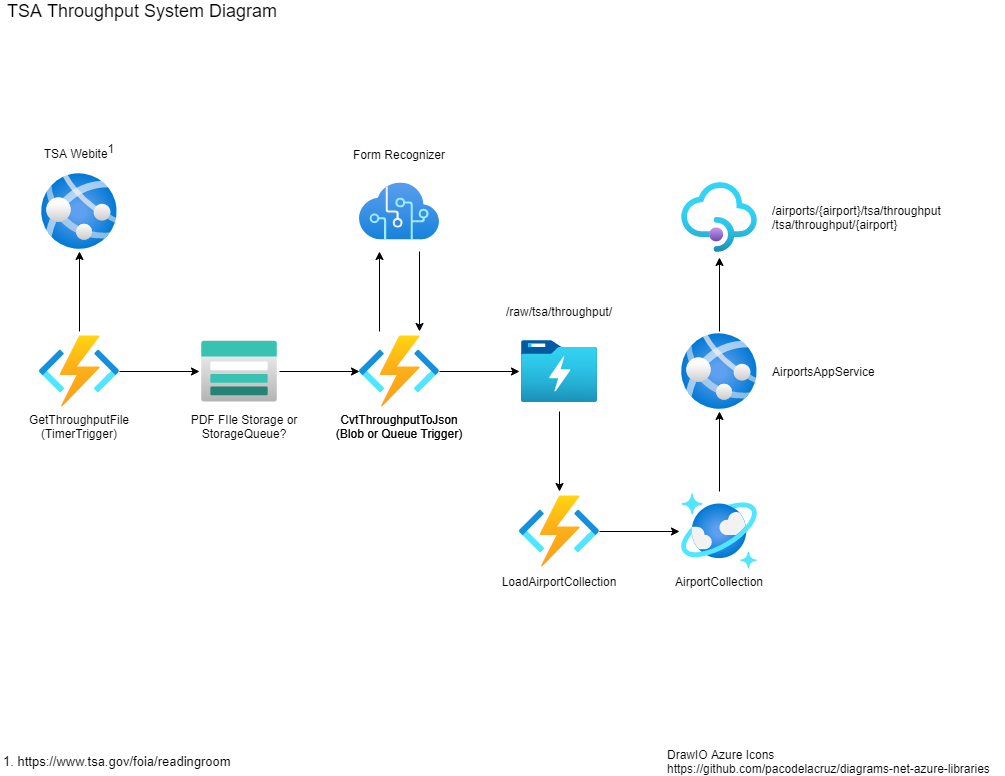
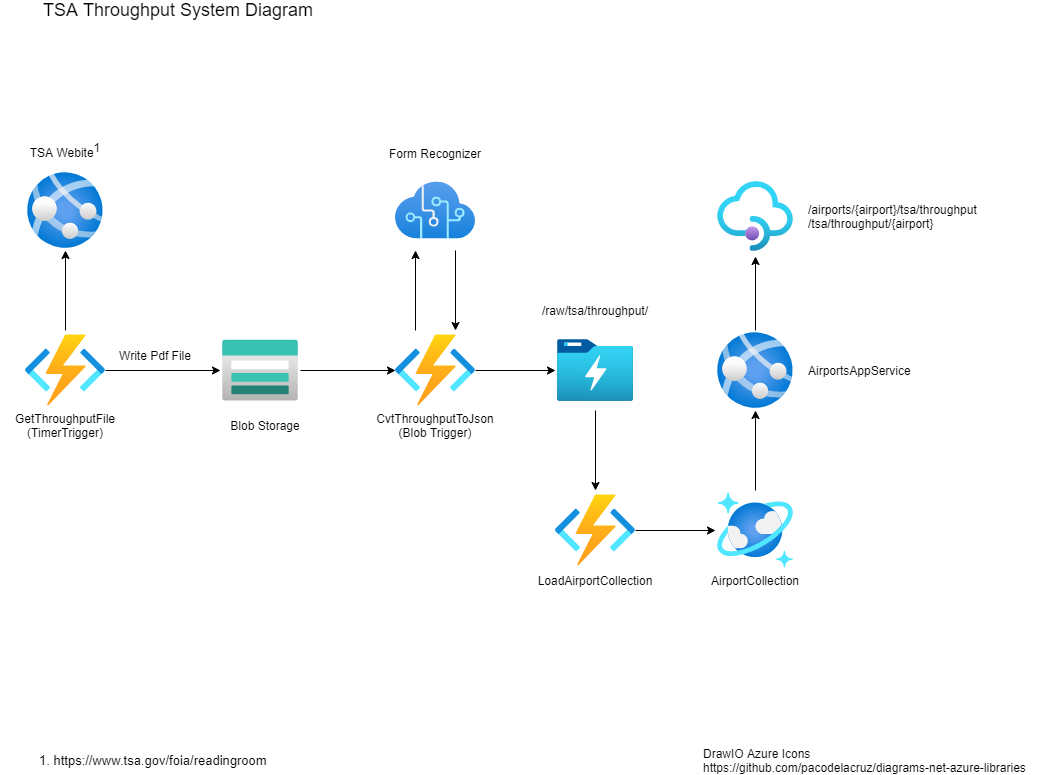
Updated to Write PDF File to Blob Storage

diff --git a/src/TsaThroughputFunctions/GetTsaThroughputFile.cs b/src/TsaThroughputFunctions/GetTsaThroughputFile.cs
@@ -3,10 +3,15 @@ using System.IO;
 using System.IO.Compression;
 using System.Net.Http;
 using System.Threading.Tasks;
+
+using Microsoft.AspNetCore.Mvc;
+
 using Microsoft.Azure.WebJobs;
-using Microsoft.Azure.WebJobs.Host;
+
 using Microsoft.Extensions.Logging;
+
 using HtmlAgilityPack;
+
 
 namespace TsaThroughput.Data.Raw
 {
@@ -15,19 +20,31 @@ namespace TsaThroughput.Data.Raw
         private static readonly HttpClient _httpClient = new HttpClient();
 
         [FunctionName("GetTsaThroughputFile")]
-        public static async void Run([TimerTrigger("1/1 * * * *")]TimerInfo myTimer, ILogger log) {
+        public static async Task Run(
+            [TimerTrigger("1/1 * * * *")] TimerInfo myTimer,
+            [Blob("data/stage/tsa/throughput/pdffile.pdf", FileAccess.Write, Connection = "AzureWebJobsStorage")] Stream pdfStream,
+            ILogger log, 
+            ExecutionContext context)
+        {
             log.LogInformation($"C# Timer trigger function executed at: {DateTime.Now}");
 
             var latestThroughputFileUrl = await GetLatestThroughputFileUrl(log);
             log.LogInformation($"Latest throughputfiles is {latestThroughputFileUrl}");
 
             var pdf = await SaveThroughputPdfAsync(latestThroughputFileUrl);
+
+            var pdfWriter = new StreamWriter(pdfStream);
+            pdfWriter.Write(pdf);
+            pdfWriter.Flush();
+            log.LogInformation("Stream Saved");
+
         }
 
         //
         // GetLatestThroughputFileUrl(log)
         // Returns the Url of the latest TsaThroughputFile
-        private static async Task<string> GetLatestThroughputFileUrl(ILogger log) {
+        private static async Task<string> GetLatestThroughputFileUrl(ILogger log) 
+        {
             string website = "https://www.tsa.gov";
             string subUrl = "/foia/readingroom/";
 
@@ -36,7 +53,8 @@ namespace TsaThroughput.Data.Raw
             HtmlDocument doc = new HtmlDocument();
             doc.LoadHtml(html);
 
-            // Extract the link so we can fetch it
+            // Extract the link so we can fetch it. Make sure it is a TSA Throughput File
+            // This assumes that the first file is always the latest
             var url = doc.DocumentNode
                 .SelectSingleNode("//a[@class='foia-reading-link'][contains(text(),'TSA Throughput')]")
                 .Attributes["href"].Value;
@@ -58,6 +76,7 @@ namespace TsaThroughput.Data.Raw
             request.Headers.TryAddWithoutValidation("Accept-Charset", "ISO-8859-1");
 
             using var response = await _httpClient.SendAsync(request).ConfigureAwait(false);
+            
             response.EnsureSuccessStatusCode();
 
             using var responseStream = await response.Content.ReadAsStreamAsync().ConfigureAwait(false);

diff --git a/src/TsaThroughputFunctions/ConvertTsaThroughputPdfToJson.cs b/src/TsaThroughputFunctions/ConvertTsaThroughputPdfToJson.cs
@@ -1,11 +1,11 @@
 // Default URL for triggering event grid function in the local environment.
 // http://localhost:7071/runtime/webhooks/EventGrid?functionName={functionname}
-using System;
+
 using Microsoft.Azure.WebJobs;
-using Microsoft.Azure.WebJobs.Host;
 using Microsoft.Azure.EventGrid.Models;
 using Microsoft.Azure.WebJobs.Extensions.EventGrid;
 using Microsoft.Extensions.Logging;
+
 
 namespace TsaThroughput.Data.Raw
 {
@@ -14,7 +14,7 @@ namespace TsaThroughput.Data.Raw
         [FunctionName("ConvertTsaThroughputPdfToJson")]
         public static void Run([EventGridTrigger]EventGridEvent eventGridEvent, ILogger log)
         {
-            log.LogInformation(eventGridEvent.Data.ToString());
+            log.LogInformation($"Event received {eventGridEvent.EventType} {eventGridEvent.Subject}");
         }
     }
 }

diff --git a/README.md b/README.md
@@ -40,3 +40,18 @@ Navigate to the /scripts folder and issue the following command
 ```
 
 The above command will process all of the files in the /data/raw/tsa/throughput folder and filter based on -a AIRPORTCODE. If you don't use the -a option, it will process all airports.
+
+### One Step Update
+
+If you don't care about the details, and just want to update the data to the latest available file published, navigate to the /scripts folder and issue the following command
+```
+./updateData.sh <latest filename>
+
+./updateData.sh tsa-throughput-april-19-2020-to-april-25-2020.pdf
+```
+This will convert the .pdf file to json and then create .csv files and figures based on the latest data.
+
+## Design Decisions
+  * 2021-06-17 - GetTsaThroughputFile Function
+    * Decided to write PDF File to Blob Storage instead of Storage Queue. Size of a message in a queue is limited to 64K, far less than the size of a TSA Throughput file.
+    * Updated [System Component Diagram](doc/SystemComponentDiagram.png) to reflect the change.
